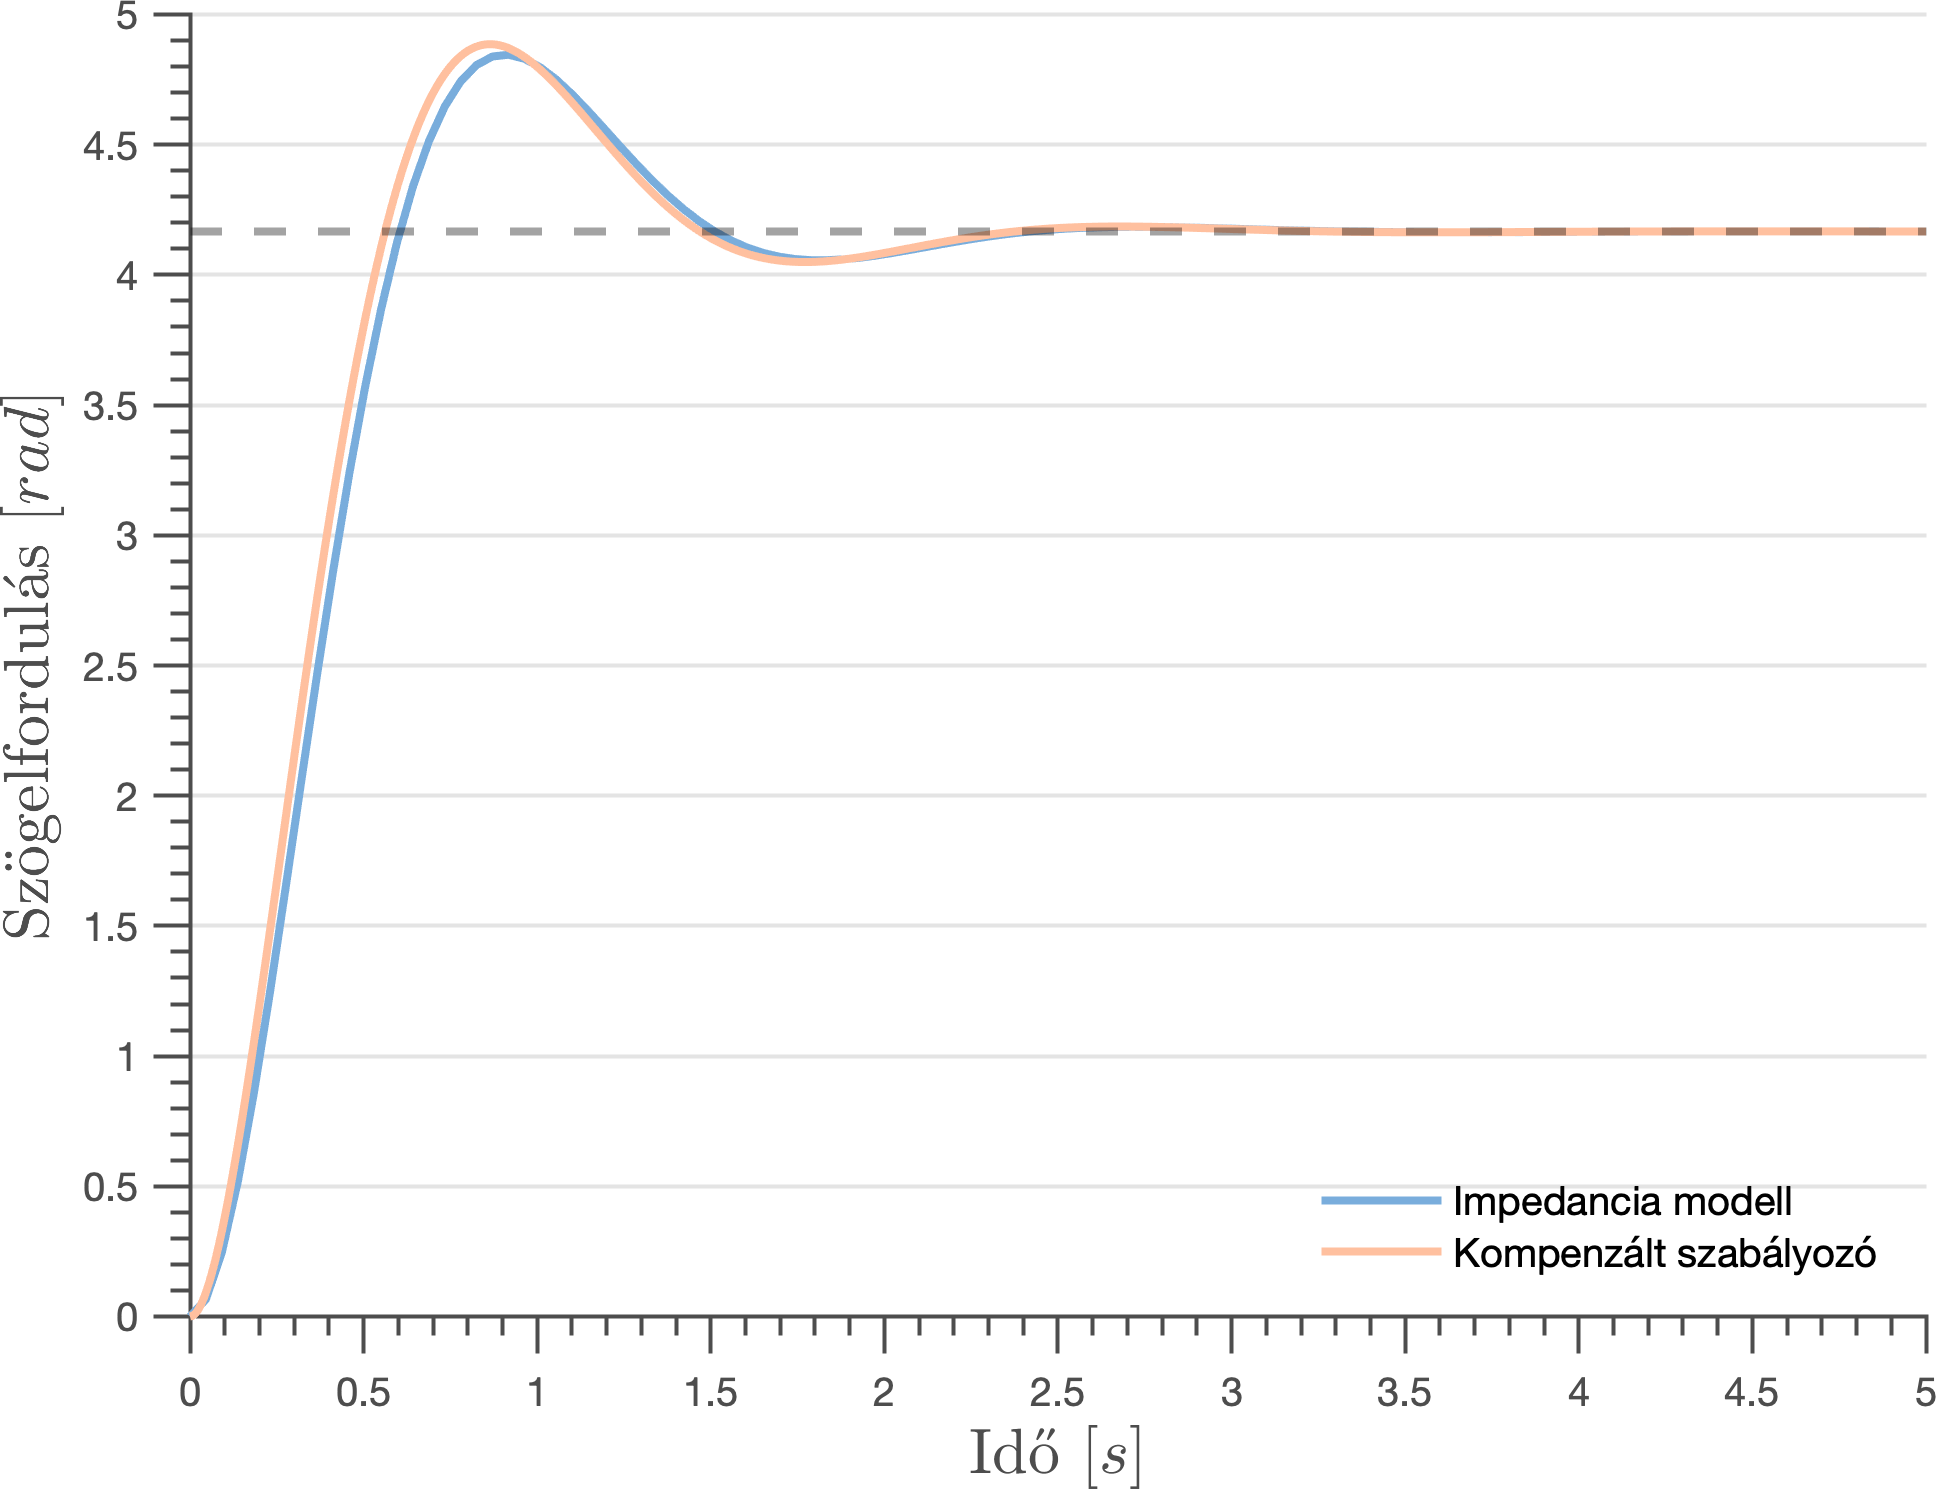
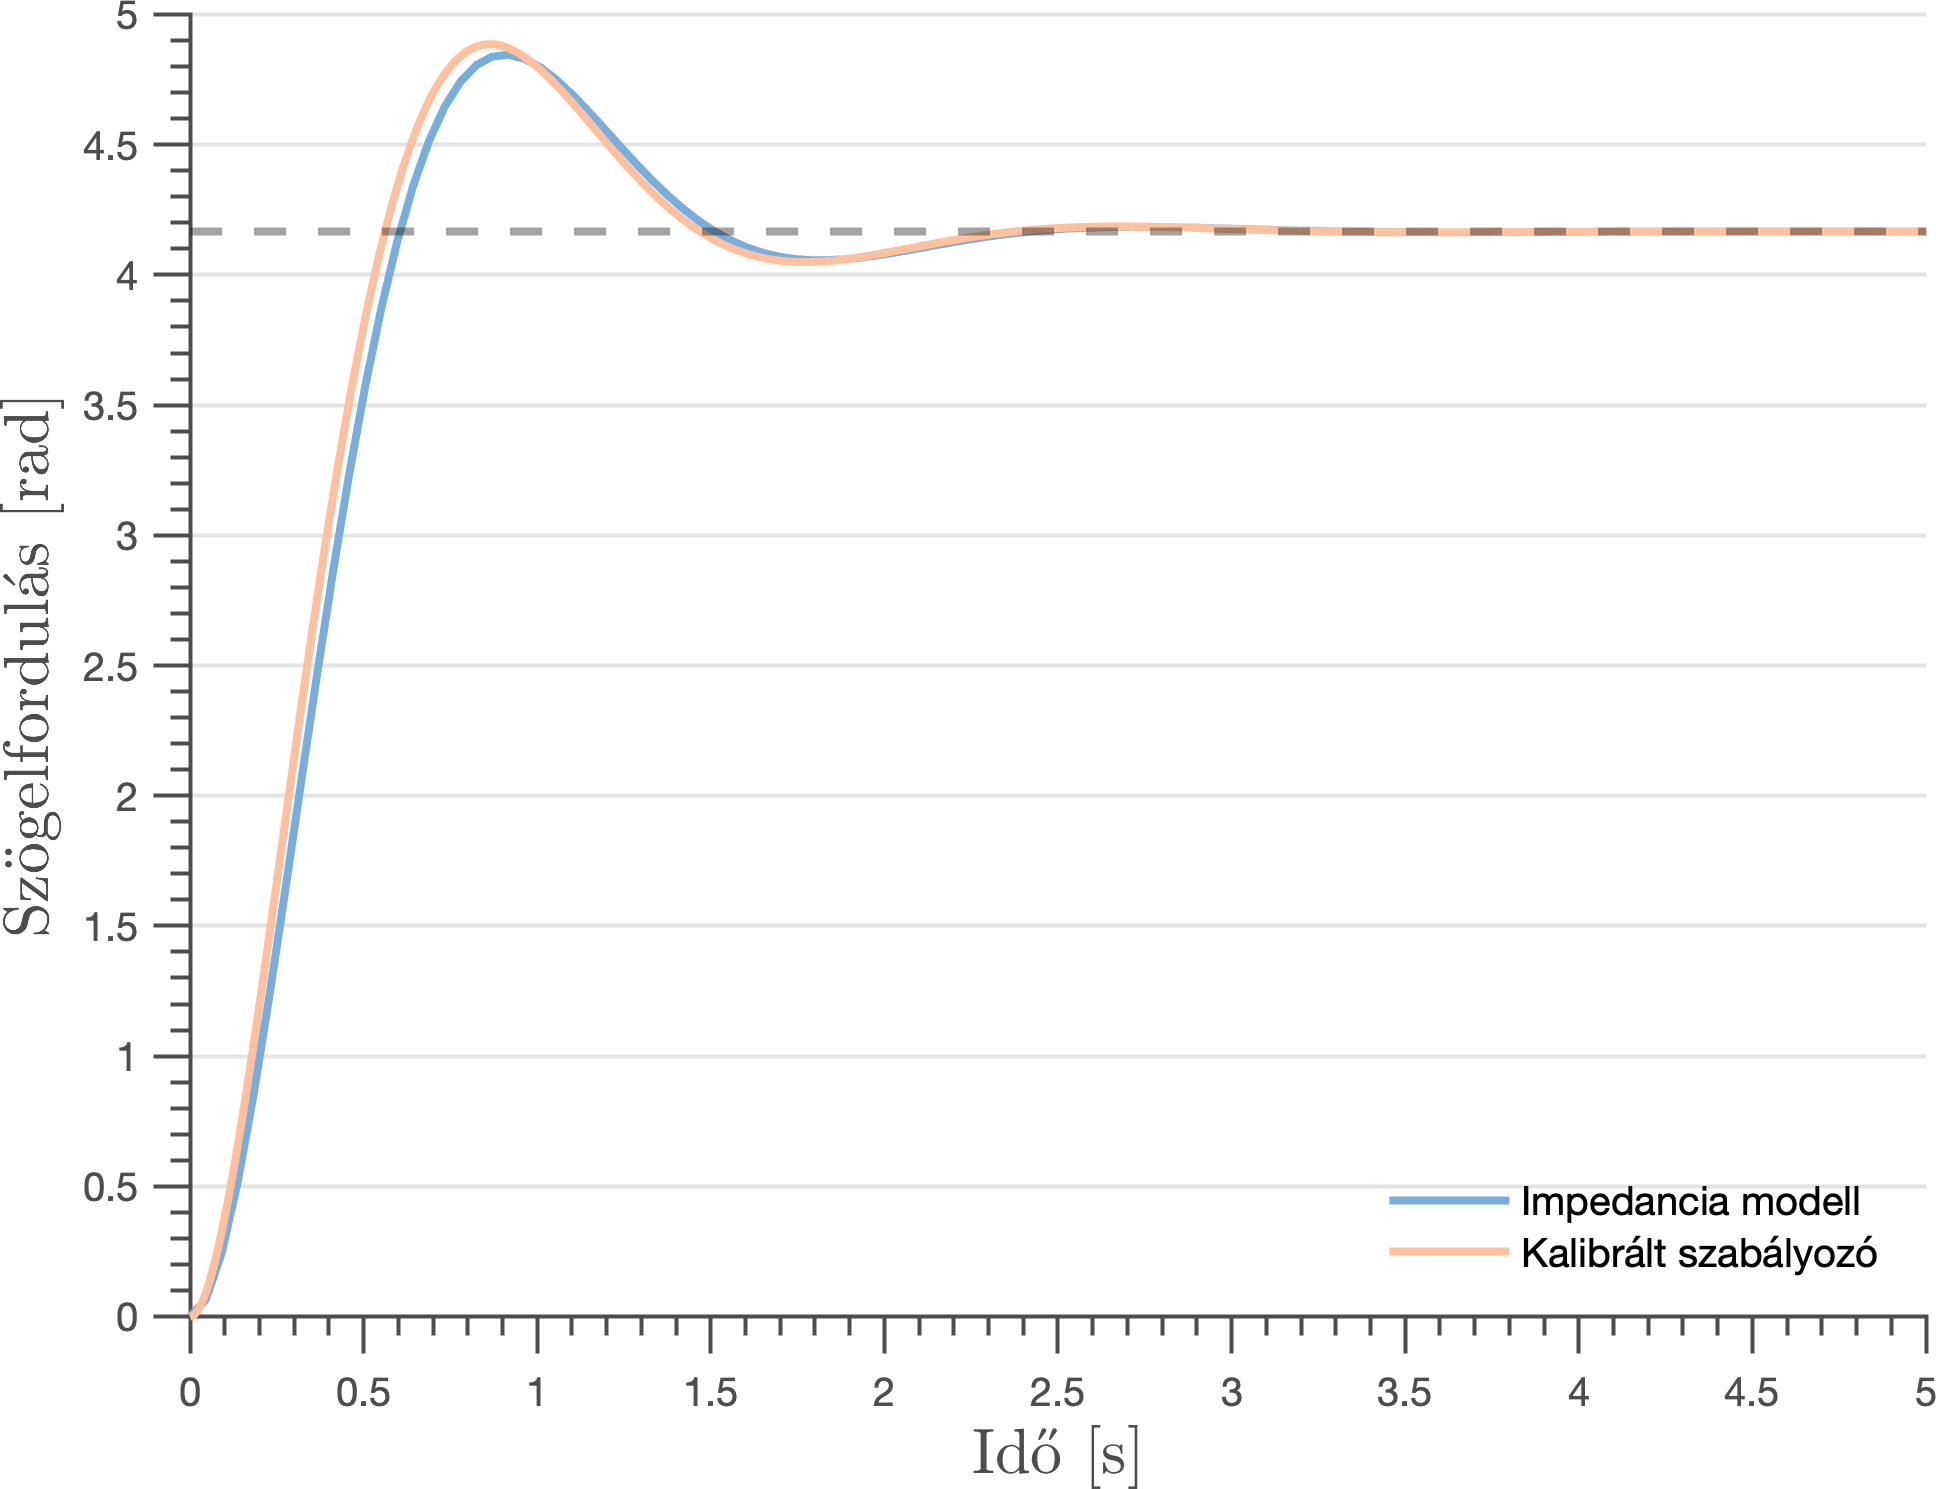
Add parameter map

diff --git a/models/comp_controller_param_map.m b/models/comp_controller_param_map.m
@@ -1,0 +1,54 @@
+J = 0.01;
+pmin = -25;
+
+Mmax = -0.1*J*pmin;
+
+% m = linspace(1,10);
+% b = linspace(1,10);
+% [M,B] = meshgrid(m,b);
+% P = B/M;
+% contour(M,B,P,'ShowText','on')
+
+m = linspace(0,0.03, 1000);
+p = linspace(0,-30, 1000);
+[M,P] = meshgrid(m,p);
+B = -8*P.*M*0.05;
+p1 = -10*m/J;
+B(P > p1) = nan;
+B(P < pmin) = nan;
+
+figure;
+pbaspect([8,6,1])
+set(gcf,'color','w');
+set(gca, 'FontName', 'Helvetica');
+p2 = pmin*ones([1, length(m)]);
+p2(p2 > p1) = nan;
+p1(p1 < pmin) = nan;
+
+hold on;
+plot(m, p2, 'LineWidth', 2, 'Color', 'black');
+plot(m, p1, 'LineWidth', 2, 'Color', 'black');
+xline(Mmax, '--', 'Alpha', 0.5)
+
+colormap("summer")
+[M, c] = contourf(M,P,B,horzcat(0.01, 0:0.025:1),'ShowText',true);
+c.LineWidth = 2;
+c.FaceAlpha = 0.5;
+clabel(M,c, 'FontSize', 12)
+
+text(0.015,-2.5,"$p_\mathrm{min} = " + pmin + "$", 'Interpreter','latex', 'FontSize', 16, 'HorizontalAlignment','center')
+text(0.015,pmin-1,"$p = p_\mathrm{min}$", 'Interpreter','latex', 'FontSize', 16, 'HorizontalAlignment','center', 'VerticalAlignment','top')
+text(0.02,pmin/2,"$p_\mathrm{max} = -10 \cdot \frac{M_\mathrm{e}}{J}$", 'Interpreter','latex', 'FontSize', 16, 'HorizontalAlignment','center', 'VerticalAlignment','top')
+
+
+xlabel('$M_\mathrm{e}~\mathrm{[kg \cdot m^2]}$', 'Interpreter', 'latex', 'FontSize', 16)
+ylabel('$p~\mathrm{[rad \cdot s^{-1}]}$', 'Interpreter', 'latex', 'FontSize', 16)
+
+set(gca, 'Box', 'off', 'TickDir', 'out', 'TickLength', [.02 .02], ...
+    'XMinorTick', 'on', 'YMinorTick', 'on', 'YGrid', 'on', ...
+    'XColor', [.3 .3 .3], 'YColor', [.3 .3 .3], ...
+    'LineWidth', 1)
+
+set(gcf,'PaperPositionMode','auto')
+export_fig("images/observer_controller_param_limits.png", "-png", "-m4", "-r300")
+

diff --git a/models/direct_comp_calib.m b/models/direct_comp_calib.m
@@ -95,11 +95,11 @@ s2 = plot(t, y, 'Color', palette(2), 'LineWidth', 2);
 % [y, t] = step(c2(1), tmax);
 % s3 = plot(t, y, 'Color', palette(2), 'LineWidth', 2);
 
-xlabel('Id\H o $[s]$', 'Interpreter', 'latex', 'FontSize', 16)
-ylabel('Sz\"ogelfordul\''as $\left[rad\right]$', 'Interpreter', 'latex', 'FontSize', 16)
+xlabel('Id\H o $[\mathrm{s}]$', 'Interpreter', 'latex', 'FontSize', 16)
+ylabel('Sz\"ogelfordul\''as $[\mathrm{rad}]$', 'Interpreter', 'latex', 'FontSize', 16)
 
 hLegend = legend([s1, s2], ...
-    'Impedancia modell', 'Kompenzált szabályozó', ...
+    'Impedancia modell', 'Kalibrált szabályozó', ...
     'Location', 'southeast', 'FontSize', 10);
 legend boxoff;
 set(gca, 'Box', 'off', 'TickDir', 'out', 'TickLength', [.02 .02], ...
@@ -124,11 +124,11 @@ s1 = plot(t, y, 'Color', palette(1), 'LineWidth', 2);
 [y, t] = step(c2(1), tmax);
 s2 = plot(t, y, 'Color', palette(2), 'LineWidth', 2);
 
-xlabel('Id\H o $[s]$', 'Interpreter', 'latex', 'FontSize', 16)
-ylabel('Sz\"ogelfordul\''as $\left[rad\right]$', 'Interpreter', 'latex', 'FontSize', 16)
+xlabel('Id\H o $[\mathrm{s}]$', 'Interpreter', 'latex', 'FontSize', 16)
+ylabel('Sz\"ogelfordul\''as $[\mathrm{rad}]$', 'Interpreter', 'latex', 'FontSize', 16)
 
 hLegend = legend([s1, s2], ...
-    'Impedancia modell', 'Kompenzált szabályozó', ...
+    'Impedancia modell', 'Kalibrált szabályozó', ...
     'Location', 'southeast', 'FontSize', 10);
 legend boxoff;
 set(gca, 'Box', 'off', 'TickDir', 'out', 'TickLength', [.02 .02], ...

diff --git a/docs/chapters/chapter_controller.tex b/docs/chapters/chapter_controller.tex
@@ -335,9 +335,21 @@ egyenletekben szereplő feltételek szerint egy adott intervallumra korlátozód
 \end{align}
 illetve az előírt viszkózus csillapítási együtthatóra is adódik egy maximális korlát~\eqref{eq:pole_selection_extremum} alapján:
 \begin{align}
-    B_\RM{e,max} = 25 \cdot Jp^2_\RM{min}\,,
+    B_\RM{e,max} = 0.04 \cdot Jp^2_\RM{min}\,,
 \end{align}
 ami felett nem választható ki olyan pólus, mely a követelményeknek megfelelő választ eredményez. 
+Egy adott \(p_\RM{min}\) minimum pólus értékre és \(J\) motor tehetetlenségre ábrázolja 
+a választható tehetetlenség - pólus párokat a~\ref{fig:observer_controller_param_limits}. ábra.
+A kontúrok konstans \(B_\RM e\) előírt viszkózus csillapítási tényezőket jelölnek a~\eqref{eq:pole_selection_pos}.
+egyenlet szerint.
+
+\begin{figure}[ht]
+    \begin{center}
+    \includegraphics[width=\textwidth]{images/observer_controller_param_limits.png}
+    \caption{Az előírható tehetetlenség és a független pólus közötti összefüggés}\label{fig:observer_controller_param_limits}
+    \end{center}
+\end{figure}
+
 Az előző feltételek alapján a pozíció referencia jelre és  külső nyomaték hatására is megfelelő válasz kapható.
 Egy ilyen válasz látható a~\ref{fig:observer_controller_pos_resp_direct_calib}. 
 és a~\ref{fig:observer_controller_torque_resp_direct_calib} ábrán. 

diff --git a/models/direct_compensated_minimum_order_controller.m b/models/direct_compensated_minimum_order_controller.m
@@ -96,8 +96,8 @@ s2 = plot(t, y, 'Color', palette(2), 'LineWidth', 2);
 % [y, t] = step(c2(1), tmax);
 % s3 = plot(t, y, 'Color', palette(2), 'LineWidth', 2);
 
-xlabel('Id\H o $[s]$', 'Interpreter', 'latex', 'FontSize', 16)
-ylabel('Sz\"ogelfordul\''as $\left[rad\right]$', 'Interpreter', 'latex', 'FontSize', 16)
+xlabel('Id\H o $[\mathrm{s}]$', 'Interpreter', 'latex', 'FontSize', 16)
+ylabel('Sz\"ogelfordul\''as $[\mathrm{rad}]$', 'Interpreter', 'latex', 'FontSize', 16)
 
 hLegend = legend([s1, s2], ...
     'Impedancia modell', 'Kompenzált szabályozó', ...
@@ -125,8 +125,8 @@ s1 = plot(t, y, 'Color', palette(1), 'LineWidth', 2);
 [y, t] = step(c2(1), tmax);
 s2 = plot(t, y, 'Color', palette(2), 'LineWidth', 2);
 
-xlabel('Id\H o $[s]$', 'Interpreter', 'latex', 'FontSize', 16)
-ylabel('Sz\"ogelfordul\''as $\left[rad\right]$', 'Interpreter', 'latex', 'FontSize', 16)
+xlabel('Id\H o $[\mathrm{s}]$', 'Interpreter', 'latex', 'FontSize', 16)
+ylabel('Sz\"ogelfordul\''as $[\mathrm{rad}]$', 'Interpreter', 'latex', 'FontSize', 16)
 
 hLegend = legend([s1, s2], ...
     'Impedancia modell', 'Kompenzált szabályozó', ...

diff --git a/models/minimum_order_observer_controller.m b/models/minimum_order_observer_controller.m
@@ -84,8 +84,8 @@ s2 = plot(t, y, 'Color', palette(2), 'LineWidth', 2);
 % [y, t] = step(c2(1), tmax);
 % s3 = plot(t, y, 'Color', palette(2), 'LineWidth', 2);
 
-xlabel('Id\H o $[s]$', 'Interpreter', 'latex', 'FontSize', 16)
-ylabel('Sz\"ogelfordul\''as $\left[rad\right]$', 'Interpreter', 'latex', 'FontSize', 16)
+xlabel('Id\H o $[\mathrm{s}]$', 'Interpreter', 'latex', 'FontSize', 16)
+ylabel('Sz\"ogelfordul\''as $[\mathrm{rad}]$', 'Interpreter', 'latex', 'FontSize', 16)
 
 hLegend = legend([s1, s2], ...
     'Impedancia modell', 'Pozíció szabályozó', ...
@@ -113,8 +113,8 @@ s1 = plot(t, y, 'Color', palette(1), 'LineWidth', 2);
 [y, t] = step(c2(1), tmax);
 s2 = plot(t, y, 'Color', palette(2), 'LineWidth', 2);
 
-xlabel('Id\H o $[s]$', 'Interpreter', 'latex', 'FontSize', 16)
-ylabel('Sz\"ogelfordul\''as $\left[rad\right]$', 'Interpreter', 'latex', 'FontSize', 16)
+xlabel('Id\H o $[\mathrm{s}]$', 'Interpreter', 'latex', 'FontSize', 16)
+ylabel('Sz\"ogelfordul\''as $[\mathrm{rad}]$', 'Interpreter', 'latex', 'FontSize', 16)
 
 hLegend = legend([s1, s2], ...
     'Impedancia modell', 'Pozíció szabályozó', ...
